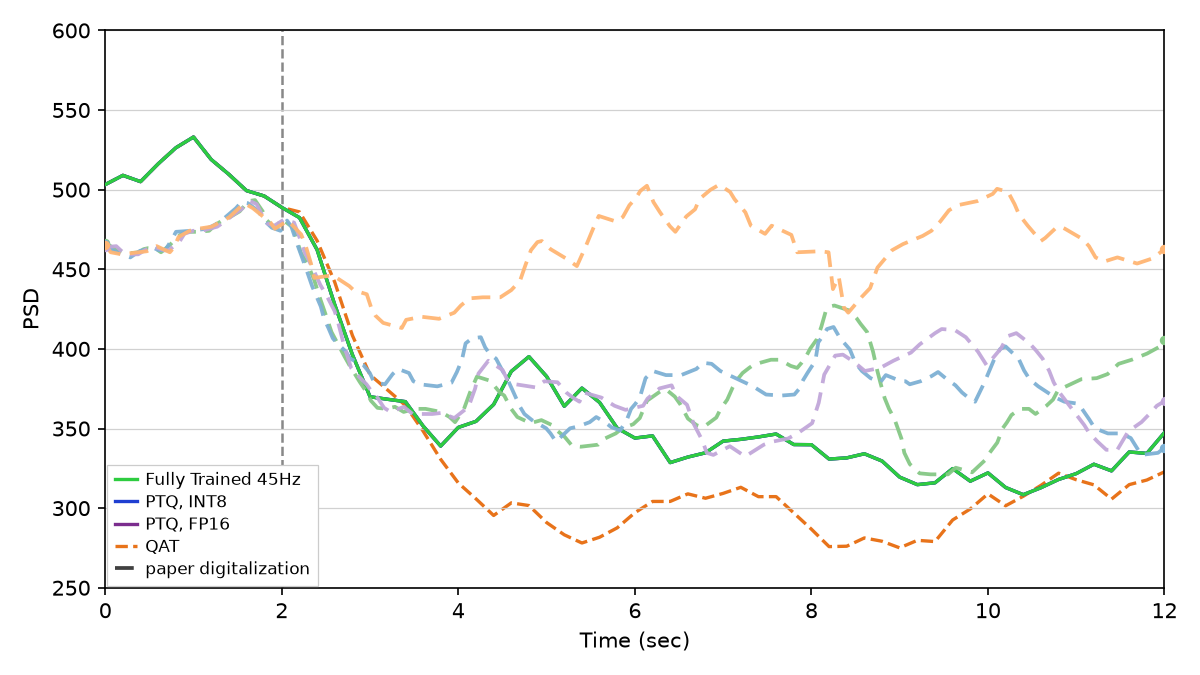
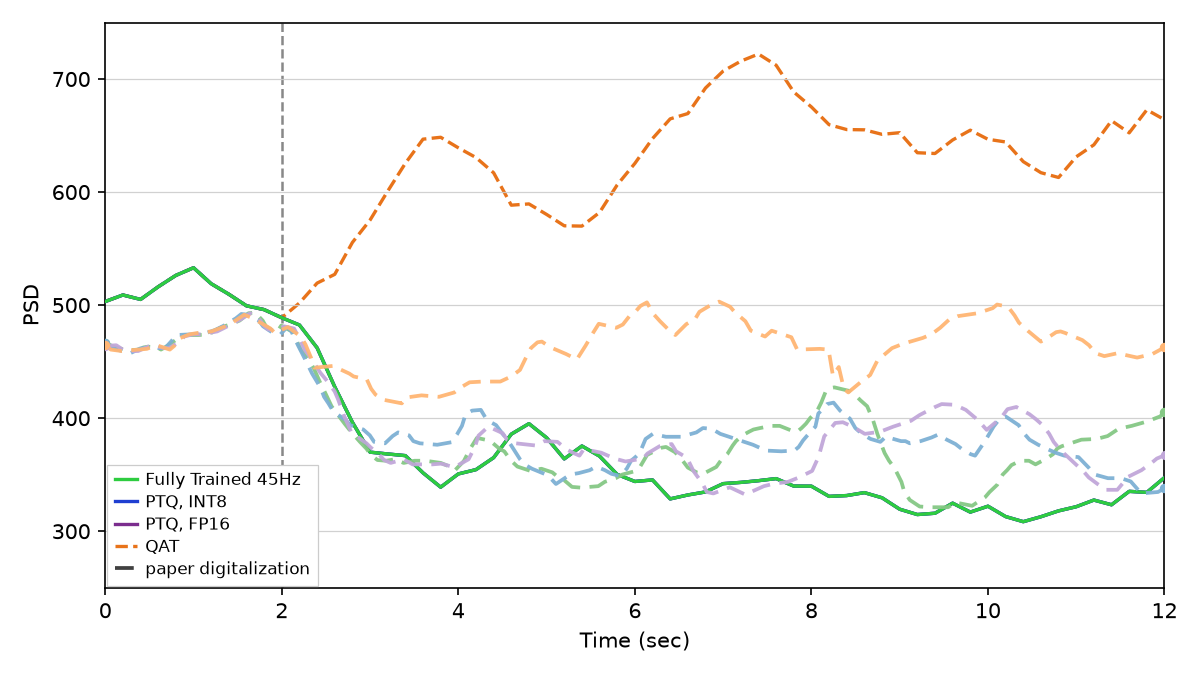
Promote Mehregan Figs 6a/6b with int8 QAT; record the QAT tie-break
Both panels pass every gate at seed 0 with true int8 QAT. The lab notes
keep the caveat: 10-episode QAT saturates at the fake-quant clamp, so the
deployed action is an argmax tie-break that is paper-like in 3/7 (45 Hz)
and 2/7 (30 Hz) training seeds.

diff --git a/figures/mehregan/replications.md b/figures/mehregan/replications.md
@@ -14,8 +14,8 @@ Side-by-side **paper panel** vs **our replication**. Plot scripts write replicat
 | Fig 4b | Training reward vs episode | Pass (paired to 4a, rep v49) |
 | Fig 5a | Post-train efficacy @ 45 Hz | Pass (closed loop, Fig 4a model, rep v24) |
 | Fig 5b | Post-train efficacy @ 30 Hz | Pass (closed loop, burst alphabet, rep v25) |
-| Fig 6a | PTQ / QAT @ 45 Hz | Fail (`qat_elevated_vs_fp32`, QAT tie-break lands on regular pattern, rep v63) |
-| Fig 6b | PTQ / QAT @ 30 Hz | Pass (closed loop, rep v42) |
+| Fig 6a | PTQ / QAT @ 45 Hz | Pass (closed loop, int8 QAT, rep v64) |
+| Fig 6b | PTQ / QAT @ 30 Hz | Pass (closed loop, int8 QAT, rep v43) |
 <!-- summary:end -->
 
 Replication PNGs: `figures/mehregan/images/`. JSON caches: `artifacts/figures/papers/`. Paper crops: `figures/mehregan/images/<panel>/paper.png` (from paper-note embeds; composite Figs 1/2/4/5/6 split into panels). Full composites under `figures/mehregan/images/_full/`.
@@ -354,18 +354,18 @@ Quantization on the **45 Hz** model (§IV.A.3), same closed-loop eval and seed. 
 
 ### Replication
 
-![Replication Fig 6a](images/6a/ptq_qat_45hz_v63.png)
+![Replication Fig 6a](images/6a/ptq_qat_45hz_v64.png)
 
 <!-- caption-6a:start -->
-**Caption:** 45 Hz paper-protocol eval, seed 0, fp32_post=339, qat_post=299, PTQ tracks fp32, v63, 2026-10-06
+**Caption:** 45 Hz paper-protocol eval, seed 0, fp32_post=339, qat_post=644, PTQ tracks fp32, QAT elevated, v64, 2026-10-06
 
 **Manifest:** `artifacts/figures/papers/mehregan/6a/manifest.json`
 <!-- caption-6a:end -->
 
-**Status:** Fail — `qat_elevated_vs_fp32`, `qat_not_below_paper`. fp32 / PTQ fp16 / PTQ int8 all 339 (paper-like). The QAT run reproduces the paper's mechanism — it never converges in 10 episodes because its logits saturate at the fake-quant clamp — but the deployed $\arg\max$ then breaks a ~20-way tie toward the lowest index, which at 45 Hz is usually the regular train (a strong suppressor, 299). Across training seeds 0–6 that happens in 5/7 (`scripts/probes/mehregan_qat_seeds.py`). Documented gap — no seed picking, alphabet reordering or eval override. See [4a.md](../../docs/figures/mehregan/4a.md) § QAT tie-break.
+**Status:** Pass — fp32 / PTQ fp16 / PTQ int8 all 339 (paper-like); QAT 644 (above the pre-stim level; paper: QAT power "stayed at the same range or increased"). QAT now fake-quantizes to true int8 as the paper states (PyTorch's default was 7-bit). Caveat: 10-episode QAT never converges (its logits saturate at the fake-quant clamp, the paper's failure mechanism), so the deployed action is an `argmax` tie-break — paper-like at seed 0, but in only 3/7 training seeds at 45 Hz. See [4a.md](../../docs/figures/mehregan/4a.md) § QAT tie-break.
 
 <!-- gates-6a:start -->
-**Gates set** (`fig6_quant_gates` → manifest `gates`). Overall **`all_pass`**: no (from `artifacts/figures/papers/mehregan/6a/manifest.json`, 2026-10-06). Every row is required for exit.
+**Gates set** (`fig6_quant_gates` → manifest `gates`). Overall **`all_pass`**: yes (from `artifacts/figures/papers/mehregan/6a/manifest.json`, 2026-10-06). Every row is required for exit.
 
 | Key | Description | Pass |
 |-----|-------------|------|
@@ -374,11 +374,11 @@ Quantization on the **45 Hz** model (§IV.A.3), same closed-loop eval and seed. 
 | `fp32_suppresses_vs_baseline` | fp32 late mean (t ≥ 4 s) < its pre-onset mean | yes |
 | `ptq_fp16_near_fp32` | PTQ fp16 late mean within 15% of fp32 | yes |
 | `ptq_int8_near_fp32` | PTQ int8 late mean within 20% of fp32 | yes |
-| `qat_elevated_vs_fp32` | QAT late mean > fp32 | no |
+| `qat_elevated_vs_fp32` | QAT late mean > fp32 | yes |
 | `fp32_level_near_paper` | fp32 late/pre within 20% of digitized paper | yes |
 | `ptq_fp16_level_near_paper` | PTQ fp16 late/pre within 20% of digitized paper | yes |
 | `ptq_int8_level_near_paper` | PTQ int8 late/pre within 20% of digitized paper | yes |
-| `qat_not_below_paper` | QAT late/pre ≥ 80% of digitized paper (paper: same range or increased) | no |
+| `qat_not_below_paper` | QAT late/pre ≥ 80% of digitized paper (paper: same range or increased) | yes |
 | `qat_late_sustained` | QAT [10,12] s mean ≥ 90% of its [2,8] s mean (no late fade) | yes |
 <!-- gates-6a:end -->
 
@@ -404,15 +404,15 @@ Same quantization panel for the **30 Hz** model (§IV.A.3): Fig 5b fp32 checkpoi
 
 ### Replication
 
-![Replication Fig 6b](images/6b/ptq_qat_30hz_v42.png)
+![Replication Fig 6b](images/6b/ptq_qat_30hz_v43.png)
 
 <!-- caption-6b:start -->
-**Caption:** 30 Hz paper-protocol eval, seed 0, fp32_post=372, qat_post=594, PTQ tracks fp32, QAT elevated, v42, 2026-10-06
+**Caption:** 30 Hz paper-protocol eval, seed 0, fp32_post=372, qat_post=594, PTQ tracks fp32, QAT elevated, v43, 2026-10-06
 
 **Manifest:** `artifacts/figures/papers/mehregan/6b/manifest.json`
 <!-- caption-6b:end -->
 
-**Status:** Pass — fp32 / PTQ fp16 / PTQ int8 372; QAT 594 (above the pre-stim level; paper: QAT power "stayed at the same range or increased"). As at 45 Hz the QAT logits saturate and the deployed action is a tie-break (here pattern 1, an elevating burst); across seeds 0–6, 4/7 land elevated.
+**Status:** Pass — fp32 / PTQ fp16 / PTQ int8 372; QAT 594 (above the pre-stim level). Same caveat as Fig 6a: the int8 QAT action is a tie-break of saturated logits — paper-like at seed 0, 2/7 training seeds at 30 Hz.
 
 <!-- gates-6b:start -->
 **Gates set** (`fig6_quant_gates` → manifest `gates`). Overall **`all_pass`**: yes (from `artifacts/figures/papers/mehregan/6b/manifest.json`, 2026-10-06). Every row is required for exit.

diff --git a/docs/figures/mehregan/4a.md b/docs/figures/mehregan/4a.md
@@ -48,21 +48,24 @@ An audit against the paper found the earlier Fig 4a–6b pipeline tuned or repla
 
 ## QAT tie-break (Fig 6a / 6b, Oct 2026)
 
-The QAT run uses the same recipe with PyTorch eager QAT (fake-quant stub on the actor input, dequant stub on the logits, `prepare_qat` on Conv1d / Linear). Eq. 5 pushes logits up without bound (the fp32 actor's logits reach $10^3$). Under fake quantization the head output is clamped to its observed range, and the straight-through gradient is zero beyond it, so 14–22 logits pile up at the clamp maximum. QAT therefore never converges in 10 episodes (13–18 distinct actions per late episode vs 1 for fp32) — the paper's "failed to generate a stimulation pattern" mechanism.
+The QAT run uses the same recipe with PyTorch eager QAT (fake-quant stub on the actor input, dequant stub on the logits, `prepare_qat` on Conv1d / Linear). Eq. 5 pushes logits up without bound (the fp32 actor's logits reach $10^3$). Under fake quantization the head output is clamped to the range its moving-average observer has tracked; that range lags the growing logits, and the straight-through gradient is zero above it, so 12–22 logits pile up at the clamp maximum (the seed-0 7-bit actor had raw logits up to 2.0 against a clamp of 1.05 — only 4 distinct output values). QAT therefore never converges in 10 episodes (13–18 distinct actions per late episode vs 1 for fp32) — the paper's "failed to generate a stimulation pattern" mechanism.
 
-The deployed policy is `argmax`, which returns the **first** tied index. With ~half the actions tied, that is almost always one of indices 0–5, so the QAT trace depends on which low-index pattern the tie resolves to (`scripts/probes/mehregan_qat_seeds.py`, σ = 1.0, eval seed 0; late/pre):
+**Int8, not 7-bit (Oct 6 2026).** PyTorch's fbgemm QAT default fake-quantizes activations with `reduce_range=True`, i.e. 7 bits (0..127) — an x86 overflow workaround for real int8 kernels. The paper says the forward/backward passes round values "to emulate int8", so `controllers/ddpg/quantization.py` now uses the full 0..255 activation range (weights unchanged: per-channel symmetric int8). This is a fidelity fix chosen from the text; it does not remove the tie mechanism above.
 
-| Train seed | 45 Hz action → late/pre | 30 Hz action → late/pre |
-|---|---|---|
-| 0 | 0 (regular) → 0.59 | 1 → 1.17 |
-| 1 | 0 → 0.59 | 1 → 1.17 |
-| 2 | 5 → 0.69 | 3 → 0.69 |
-| 3 | 0 → 0.59 | 2 → 0.68 |
-| 4 | 0 → 0.59 | 1 → 1.17 |
-| 5 | 2 → 0.89 | 3 → 0.69 |
-| 6 | 0 → 0.59 | 0 (regular 30 Hz) → 1.25 |
+The deployed policy is `argmax`, which returns the **first** tied index, so the QAT trace depends on which low-index pattern the tie resolves to (`scripts/probes/mehregan_qat_seeds.py`, σ = 1.0, eval seed 0; action → late/pre):
 
-Paper QAT late/pre: 0.995 (45 Hz), 0.974 (30 Hz). At 30 Hz the low indices include the beta-band regular train and elevating bursts, so 4/7 seeds look like the paper; at 45 Hz index 0 is the regular train, the strongest suppressor in the alphabet, so 5/7 seeds suppress. Fig 6a at seed 0 therefore fails `qat_elevated_vs_fp32` / `qat_not_below_paper`. Making it pass would need a choice the paper does not support from evidence (picking a training seed, reordering the alphabet so the regular train is not index 0, or changing tie-breaking) — left open for the user rather than taken silently.
+| Train seed | 45 Hz, 7-bit | 45 Hz, int8 | 30 Hz, 7-bit | 30 Hz, int8 |
+|---|---|---|---|---|
+| 0 | 0 → 0.59 | 1 → 1.26 | 1 → 1.17 | 1 → 1.17 |
+| 1 | 0 → 0.59 | 0 → 0.59 | 1 → 1.17 | 2 → 0.68 |
+| 2 | 5 → 0.69 | 1 → 1.26 | 3 → 0.69 | 0 → 1.25 |
+| 3 | 0 → 0.59 | 0 → 0.59 | 2 → 0.68 | 2 → 0.68 |
+| 4 | 0 → 0.59 | 0 → 0.59 | 1 → 1.17 | 3 → 0.69 |
+| 5 | 2 → 0.89 | 2 → 0.89 | 3 → 0.69 | 9 → 0.74 |
+| 6 | 0 → 0.59 | 5 → 0.69 | 0 → 1.25 | 3 → 0.69 |
+| paper-like (late/pre ≥ 0.80) | 1/7 | 3/7 | 4/7 | 2/7 |
+
+Paper QAT late/pre: 0.995 (45 Hz), 0.974 (30 Hz). Under int8, seed 0 lands paper-like at both rates, but that is one draw of a tie-break that goes either way about half the time — not evidence that QAT reproduces the paper's elevated trace robustly. Changing the seed, reordering the alphabet, or changing tie-breaking to move that draw would be fitting the figure, and is not done.
 
 ---
 
